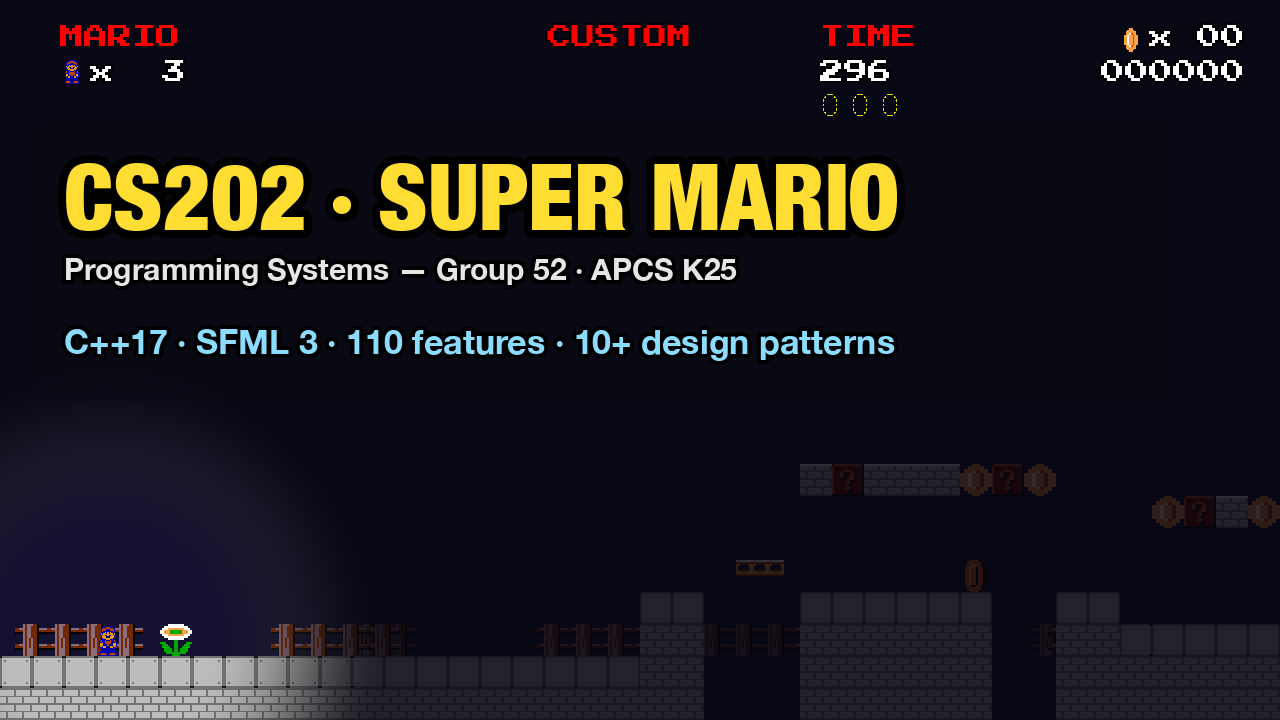
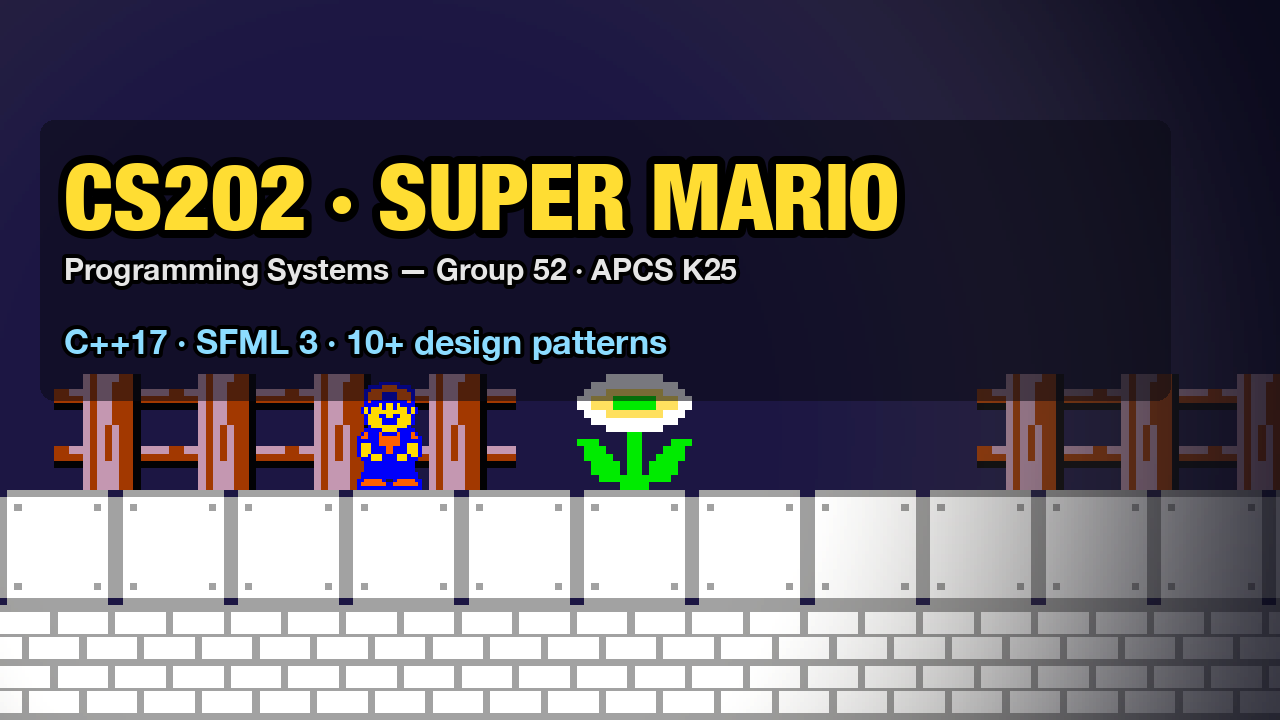
fix(thumbnail): ship one cropped-and-zoomed candidate, drop unverified claim
Scope cut to a single thumbnail (the technical/lighting-cave candidate)
after review found Mario unreadable at native resolution in all three
candidates. Crops tight to Mario and the fire flower and upscales with
Image.NEAREST (pixel art, so no LANCZOS/BICUBIC blur), with a brightness
lift on the game layer only. Also drops "110 features" from the
credibility line -- that is SPEC's scope figure, not a verified
delivered count (submission_documents/features_list.md lists 97).
Candidates A and B are removed; only thumbnail_C_technical.png ships.

diff --git a/reports/assets/thumbnail/make_thumbnail.py b/reports/assets/thumbnail/make_thumbnail.py
@@ -1,13 +1,18 @@
 #!/usr/bin/env python3
-"""Compose the three YouTube thumbnail candidates from fresh in-game captures.
+"""Compose the YouTube thumbnail for the CS202 SuperMarioGame demo video.
 
-Source frames live in saves/shots/ (gitignored, not committed); this script
-and its PNG outputs are the committed deliverable. Run with:
+Scope (per the coordinator, after two rounds of review): ship ONE thumbnail,
+the "technical" candidate -- the dynamic-lighting cave, cropped and zoomed on
+Mario so he actually reads at small size, with a credibility line that only
+states verified facts.
 
-    python3 reports/assets/thumbnail/compose.py
+Source frame lives in saves/shots/ (gitignored, not committed); this script
+and its PNG output are the committed deliverable. Run with:
+
+    python3 reports/assets/thumbnail/make_thumbnail.py
 """
 import os
-from PIL import Image, ImageDraw, ImageFont, ImageFilter
+from PIL import Image, ImageDraw, ImageFont, ImageEnhance
 
 HERE = os.path.dirname(os.path.abspath(__file__))
 SHOTS = os.path.abspath(os.path.join(HERE, "..", "..", "..", "saves", "shots"))
@@ -31,31 +36,8 @@ def load(name):
     return im
 
 
-def cover_crop(im, target_w, target_h, focus_y=0.5):
-    """Resize+crop im to exactly (target_w, target_h) without distortion,
-    preserving aspect ratio (crop instead of stretch). focus_y biases which
-    part of the vertical extent survives the crop (0 = top, 1 = bottom)."""
-    src_w, src_h = im.size
-    target_aspect = target_w / target_h
-    src_aspect = src_w / src_h
-    if src_aspect > target_aspect:
-        # Source is wider than target: crop left/right, keep full height.
-        new_w = int(round(src_h * target_aspect))
-        x0 = (src_w - new_w) // 2
-        box = (x0, 0, x0 + new_w, src_h)
-    else:
-        # Source is taller than target: crop top/bottom.
-        new_h = int(round(src_w / target_aspect))
-        y0 = int(round((src_h - new_h) * focus_y))
-        y0 = max(0, min(y0, src_h - new_h))
-        box = (0, y0, src_w, y0 + new_h)
-    cropped = im.crop(box)
-    return cropped.resize((target_w, target_h), Image.LANCZOS)
-
-
-def draw_outlined_text(draw, xy, text, fnt, fill, stroke_fill, stroke_width, anchor=None):
-    draw.text(xy, text, font=fnt, fill=fill, stroke_width=stroke_width,
-              stroke_fill=stroke_fill, anchor=anchor)
+def draw_outlined_text(draw, xy, text, fnt, fill, stroke_fill, stroke_width):
+    draw.text(xy, text, font=fnt, fill=fill, stroke_width=stroke_width, stroke_fill=stroke_fill)
 
 
 def backing_bar(im, box, opacity=175, radius=14):
@@ -67,89 +49,29 @@ def backing_bar(im, box, opacity=175, radius=14):
     im.paste(Image.alpha_composite(im.convert("RGBA"), overlay).convert("RGB"), (0, 0))
 
 
-# ---------------------------------------------------------------------------
-# Candidate A -- clean hero shot: busy World 1-1, Mario mid-jump.
-# ---------------------------------------------------------------------------
-
-def make_a():
-    base = load("thumb_busy_02_jumping.png").convert("RGB")
-
-    # Mario himself is airborne around x=627-660, y=540-583 (measured from
-    # the raw capture) -- this box stays left of x=620 so he is never
-    # covered, and the enemy cluster (paratroopa ~x1058, goomba ~x1150) sits
-    # well clear to the right. Only the decorative coin pillar and empty sky
-    # are underneath it.
-    box = (MARGIN, 410, 620, 690)
-    backing_bar(base, box, opacity=190)
-
-    draw = ImageDraw.Draw(base)
-    cs202_font = font(100, HELVETICA_COND_BLACK_INDEX)
-    mario_font = font(70, HELVETICA_COND_BLACK_INDEX)
-    sub_font = font(30, HELVETICA_BOLD_INDEX)
-
-    draw_outlined_text(draw, (64, 424), "CS202", cs202_font,
-                        fill=(255, 221, 51), stroke_fill=(20, 10, 0), stroke_width=9)
-    draw_outlined_text(draw, (64, 520), "SUPER MARIO", mario_font,
-                        fill=(255, 255, 255), stroke_fill=(20, 10, 0), stroke_width=7)
-    draw_outlined_text(draw, (64, 612), "Programming Systems — Group 52 · APCS K25",
-                        sub_font, fill=(210, 230, 255), stroke_fill=(20, 10, 0), stroke_width=5)
-
-    base.save(os.path.join(OUT, "thumbnail_A_clean.png"))
-
-
-# ---------------------------------------------------------------------------
-# Candidate B -- 2x2 collage: gameplay, boss, lighting, editor.
-# ---------------------------------------------------------------------------
-
-def make_b():
-    canvas = Image.new("RGB", (W, H), (5, 5, 10))
-
-    bar_h = 128
-    grid_top = bar_h
-    grid_h = H - bar_h
-    cell_w, cell_h = W // 2, grid_h // 2
-
-    panels = [
-        ("thumb_busy_01_arrival.png", 1.0),
-        ("thumb_boss_01_t0.png", 1.0),
-        ("thumb_cave_02_fire_mario_airborne.png", 1.0),
-        ("thumb_editor_01_level_under_edit.png", 0.0),
-    ]
-    positions = [(0, grid_top), (cell_w, grid_top), (0, grid_top + cell_h), (cell_w, grid_top + cell_h)]
-
-    for (name, focus_y), (px, py) in zip(panels, positions):
-        im = load(name)
-        panel = cover_crop(im, cell_w, cell_h, focus_y=focus_y)
-        canvas.paste(panel, (px, py))
-
-    # Thin separators so the four frames don't visually bleed into each other.
-    draw = ImageDraw.Draw(canvas)
-    sep = 4
-    draw.rectangle((cell_w - sep // 2, grid_top, cell_w + sep // 2, H), fill=(5, 5, 10))
-    draw.rectangle((0, grid_top + cell_h - sep // 2, W, grid_top + cell_h + sep // 2), fill=(5, 5, 10))
-
-    # Title bar across the top, full width, solid -- never clipped by a grid line.
-    draw.rectangle((0, 0, W, bar_h), fill=(10, 10, 20))
-    main_font = font(58, HELVETICA_COND_BLACK_INDEX)
-    sub_font = font(26, HELVETICA_BOLD_INDEX)
-    draw_outlined_text(draw, (MARGIN, 16), "CS202 · SUPER MARIO GAME", main_font,
-                        fill=(255, 221, 51), stroke_fill=(0, 0, 0), stroke_width=5)
-    draw_outlined_text(draw, (MARGIN, 84), "Programming Systems — Group 52 · APCS K25",
-                        sub_font, fill=(230, 230, 230), stroke_fill=(0, 0, 0), stroke_width=3)
-
-    canvas.save(os.path.join(OUT, "thumbnail_B_collage.png"))
-
-
-# ---------------------------------------------------------------------------
-# Candidate C -- technical: dynamic-lighting cave + credibility line.
-# ---------------------------------------------------------------------------
-
 def make_c():
-    base = load("thumb_cave_00_dark_with_light.png").convert("RGB")
+    src = load("thumb_cave_00_dark_with_light.png")
 
-    # The top third of this frame is near-pure black in-engine; a light
-    # backing bar still goes behind the text so it also survives on a
-    # brighter recapture of the same scene.
+    # Mario (small form) plus the fire flower sit at roughly x:95-220,
+    # y:605-660 in the raw 1280x720 capture -- a ~30px-tall speck in the
+    # bottom-left corner, per the coordinator's review. Crop tight around
+    # that pair (keeping the dark cave ceiling above them, where the title
+    # goes) and upscale with NEAREST -- this is pixel art, so NEAREST keeps
+    # every edge crisp; LANCZOS/BICUBIC would blur it into mush.
+    crop_box = (0, 520, 355, 720)  # 355x200, exactly 16:9
+    cropped = src.crop(crop_box)
+    game_layer = cropped.resize((W, H), Image.NEAREST)
+
+    # The cave is very dark by design (that is the point of the lighting
+    # demo), which reads as "underlit" rather than "atmospheric" once
+    # cropped this tight. Lift it moderately so Mario and the flower read
+    # clearly; the text layer below is untouched by this.
+    game_layer = ImageEnhance.Brightness(game_layer).enhance(1.4)
+
+    base = game_layer.convert("RGB")
+
+    # Same title block, same position, as the earlier reviewed-and-approved
+    # candidate C -- only the credibility line's content changed (below).
     box = (MARGIN, 120, 1170, 400)
     backing_bar(base, box, opacity=140)
 
@@ -162,22 +84,18 @@ def make_c():
                         fill=(255, 221, 51), stroke_fill=(0, 0, 0), stroke_width=8)
     draw_outlined_text(draw, (64, 250), "Programming Systems — Group 52 · APCS K25",
                         sub_font, fill=(230, 230, 230), stroke_fill=(0, 0, 0), stroke_width=4)
-    draw_outlined_text(draw, (64, 320), "C++17 · SFML 3 · 110 features · 10+ design patterns",
+    # "110 features" removed: that is SPEC's scope figure, not a verified
+    # delivered count (submission_documents/features_list.md lists 97, and a
+    # parallel lane is still reconciling the true number). Only claims that
+    # hold up go on a public thumbnail.
+    draw_outlined_text(draw, (64, 320), "C++17 · SFML 3 · 10+ design patterns",
                         credibility_font, fill=(140, 220, 255), stroke_fill=(0, 0, 0), stroke_width=4)
 
     base.save(os.path.join(OUT, "thumbnail_C_technical.png"))
-
-
-def make_downscales():
-    for name in ["thumbnail_A_clean.png", "thumbnail_B_collage.png", "thumbnail_C_technical.png"]:
-        im = Image.open(os.path.join(OUT, name))
-        small = im.resize((320, 180), Image.LANCZOS)
-        small.save(os.path.join(OUT, name.replace(".png", "_320x180.png")))
+    small = base.resize((320, 180), Image.LANCZOS)
+    small.save(os.path.join(OUT, "thumbnail_C_technical_320x180.png"))
 
 
 if __name__ == "__main__":
-    make_a()
-    make_b()
     make_c()
-    make_downscales()
     print("done")
